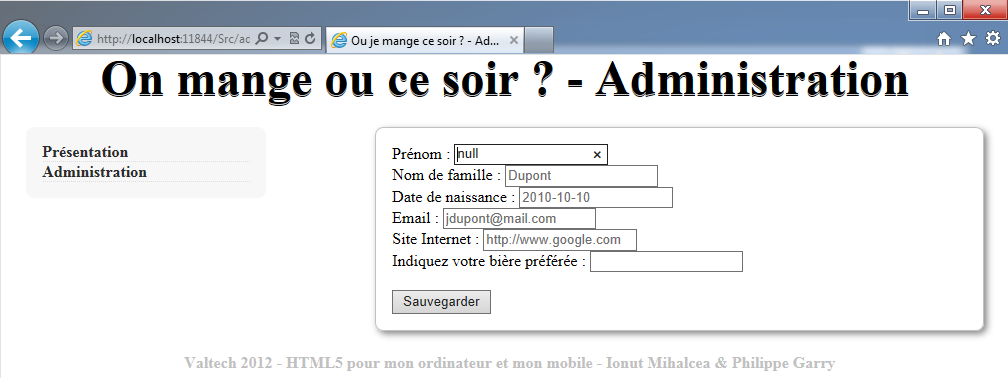
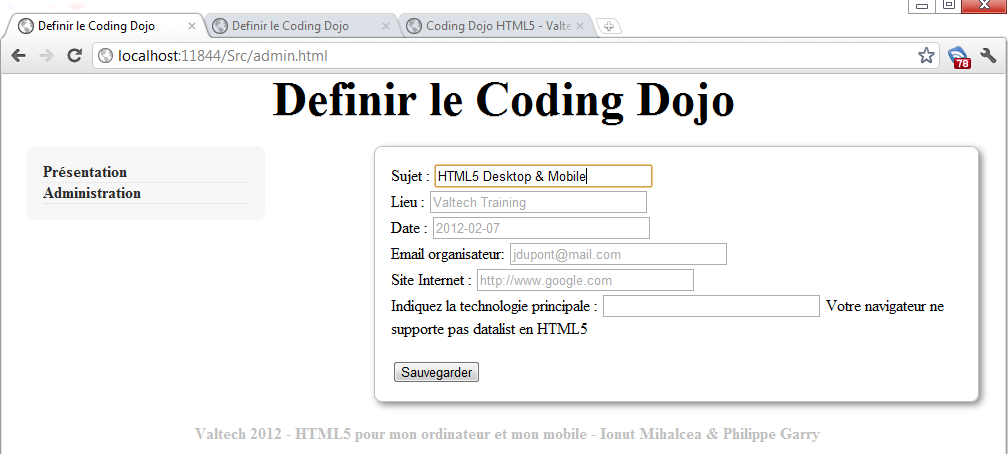
modifs im 3

Changed region(s): [[0.0, 0.0, 1.0, 1.0], [0.1845, 0.9312, 0.8304, 0.9894], [0.0308, 0.3492, 0.1538, 0.4947]]

diff --git a/Src/admin.html b/Src/admin.html
@@ -1,13 +1,13 @@
-<!doctype html>
+<!doctype html>
 <html>
 <head>
 	<meta http-equiv="Content-Type" content="text/html; charset=utf-8">
-	<title>Ou je mange ce soir ? - Admin</title>
+	<title>Definir le Coding Dojo</title>
 	<link rel="stylesheet" href="style.css" type="text/css">
 	<script type="text/javascript" src="script.js"></script>
 </head>
 <body onload="initParams()">
-	<header>On mange ou ce soir ? - Administration</header>
+	<header>Definir le Coding Dojo</header>
 	<aside>
 		<nav>
 			<ul>
@@ -20,19 +20,22 @@
 	
 	<article>
 		<form id="form">
-			<label for="prenom">Prénom : </label><input id="prenom" type="text" autofocus placeholder="Philippe" pattern="[a-zA-Z \-]*"><br>
-			<label for="nom">Nom de famille : </label><input id="nom" type="text" placeholder="Dupont"><br>
-			<label for="datenaissance">Date de naissance : </label><input id="datenaissance" type="date" placeholder="2010-10-10"><br>
-			<label for="email">Email : </label><input id="email" type="email" placeholder="jdupont@mail.com"><br>
+			<label for="sujet">Sujet : </label><input id="sujet" type="text" autofocus placeholder="HTML 5"><br>
+			<label for="lieu">Lieu : </label><input id="lieu" type="text" placeholder="Valtech Training"><br>
+			<label for="datesceance">Date : </label><input id="datesceance" type="date" placeholder="2012-02-07"><br>
+			<label for="email">Email organisateur: </label><input id="email" type="email" placeholder="jdupont@mail.com"><br>
 			<label for="site">Site Internet : </label><input id="site" type="url" placeholder="http://www.google.com"><br>
-			<label for="choix_bieres">Indiquez votre bière préférée :</label>
-			<input list="bieres" type="text" id="choix_bieres">
-			<datalist id="bieres">
+			<label for="choix_technologies">Indiquez la technologie principale :</label>
+			<input list="technologies" type="text" id="choix_bieres">
+			<datalist id="technologies">
 			Votre navigateur ne supporte pas datalist en HTML5
-			  <option value="Meteor">
-			  <option value="Pils">
-			  <option value="Kronenbourg">
-			  <option value="Grimbergen">
+			  <option value="HTML5/CSS/JavaScript">
+			  <option value="ASP.NET">
+			  <option value="C#">
+			  <option value="Java">
+              <option value="Silvelight">
+              <option value="Flex">
+              <option value="Flash">
 			</datalist>
 			<br><br>
 

diff --git a/Src/script.js b/Src/script.js
@@ -7,9 +7,9 @@ function initIndex () {
 
 function initProfil () {
 
-	if(localStorage.getItem('prenom'))
+	if(localStorage.getItem('sujet'))
 	{
-		document.querySelector('#nom').innerHTML = localStorage.getItem('prenom');
+		document.querySelector('#sujet').innerHTML = localStorage.getItem('sujet');
 	}
 	
 	var description = document.querySelector('#description');
@@ -51,11 +51,11 @@ function showPosition () {
 }
 
 function initParams () {
-	document.querySelector('#prenom').value = localStorage.getItem('prenom');
+	document.querySelector('#sujet').value = localStorage.getItem('sujet');
 }
 
 function saveParams () {
-	localStorage.setItem('prenom', document.querySelector('#prenom').value);
+	localStorage.setItem('sujet', document.querySelector('#sujet').value);
 	document.querySelector('#saveMessage').style.display = '';
 
 	document.querySelector('#form').addEventListener('focus', hideSaveMessage, true);

diff --git a/Dojo/admin.html b/Dojo/admin.html
@@ -2,12 +2,12 @@
 <html>
 <head>
 	<meta http-equiv="Content-Type" content="text/html; charset=utf-8">
-	<title>Ou je mange ce soir ? - Admin</title>
+	<title>Enregistrez vos coordonnèes</title>
 	<link rel="stylesheet" href="style.css" type="text/css">
 	<script type="text/javascript" src="script.js"></script>
 </head>
-<body onload="initParams()">
-	<header>On mange ou ce soir ? - Administration</header>
+<body>
+	<header>Enregistrez vos coordonnèes</header>
 	<aside>
 		<nav>
 			<ul>

diff --git a/Dojo/script.js b/Dojo/script.js
@@ -6,30 +6,22 @@ function initIndex () {
 
 
 function initProfil () {
-    return;
 }
 
 function saveContent (element) {
-    return;
 }
 
 function showMap() {
-    return;
 }
 
 function showPosition () {
-    return;
- 
 }
 
 function initParams () {
-    return;
 }
 
 function saveParams () {
-    return;
 }
 
 function hideSaveMessage () {	
-    return;
 }

diff --git a/Src/index.html b/Src/index.html
@@ -43,7 +43,7 @@
 	<article>
 		
 		
-		<h1 id="nom">Coding Dojo</h1>
+		<h1 id="sujet">Coding Dojo</h1>
 		<p id="complement">On y mange du code, c'est bon mangez-en</p>
 		<h3>Présentation</h3>
 		<div id="description" contenteditable=true>
